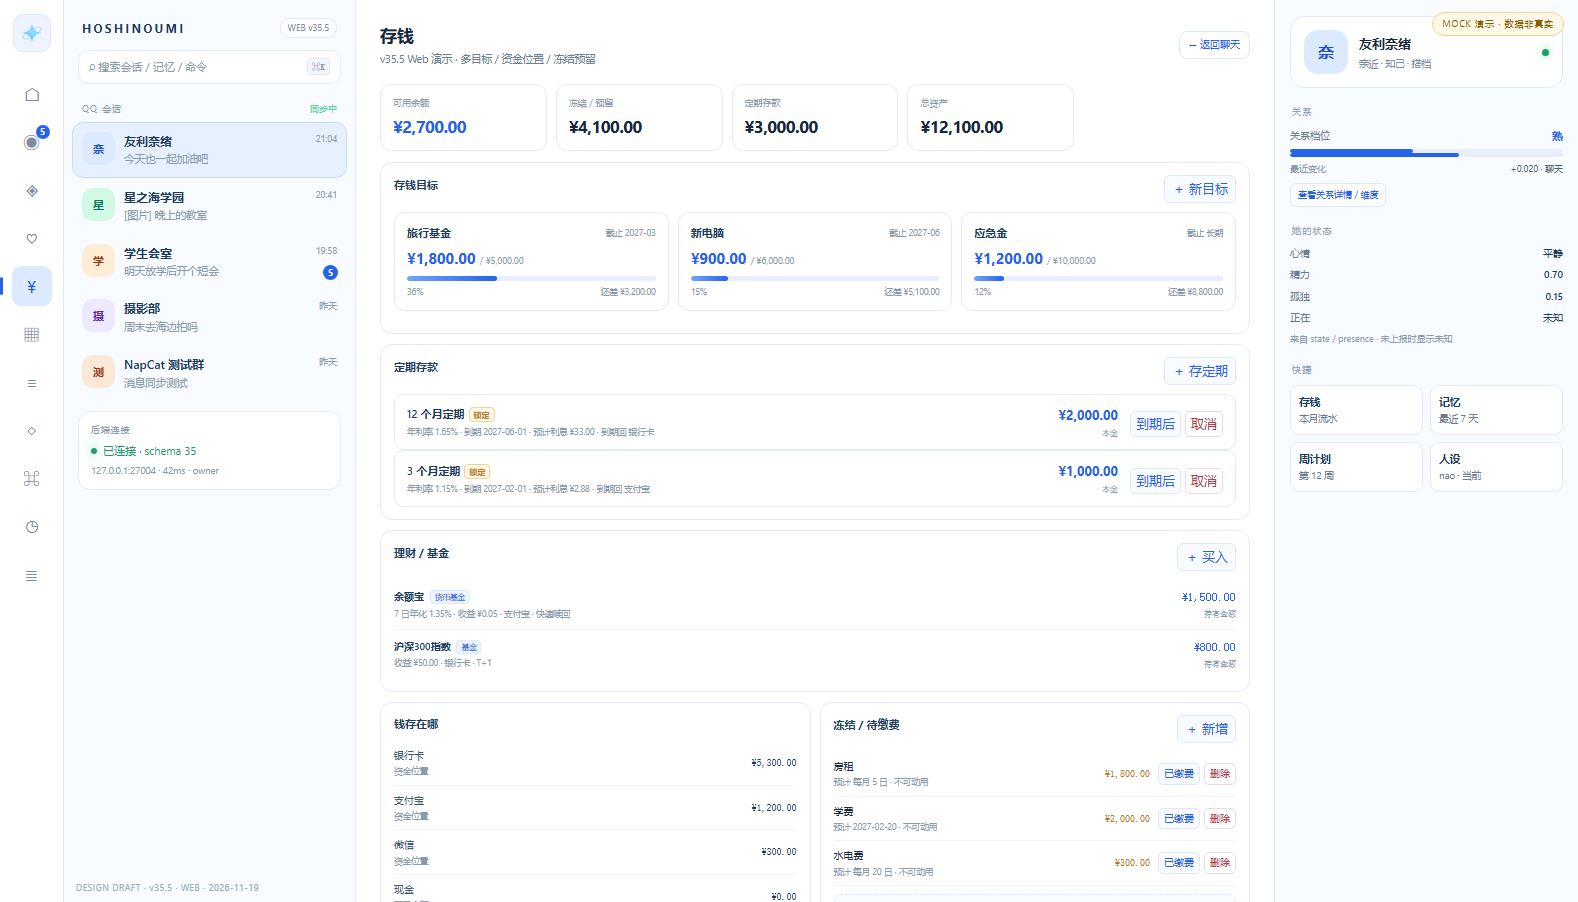
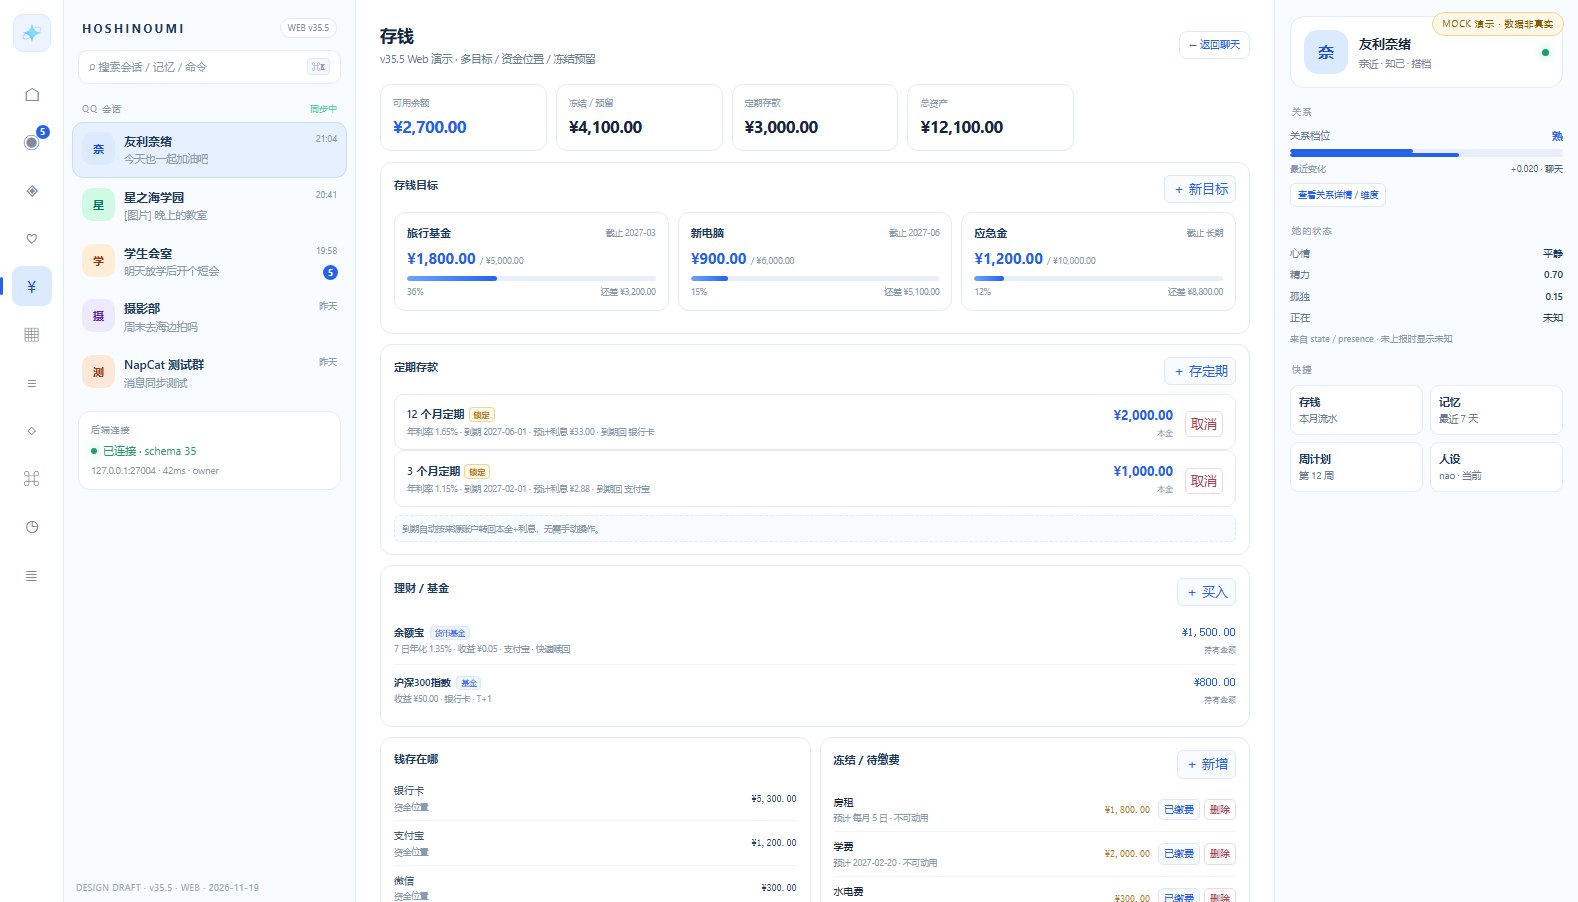
fix(v35.5): 定期到期自动处理与页面滚动

diff --git a/docs/design/v35/web/demo.js b/docs/design/v35/web/demo.js
@@ -85,7 +85,7 @@
   const css = document.createElement('style');
   css.textContent = `
     .chat-hide{display:none!important}
-    .page-view{display:none;flex:1;min-height:0;overflow:auto;padding:22px 24px;background:#fff;color:#17263b}
+    .page-view{display:none;flex:1;min-height:0;overflow-y:auto;overflow-x:hidden;overscroll-behavior:contain;padding:22px 24px;background:#fff;color:#17263b}
     .page-view.on{display:block}
     .page-head{display:flex;align-items:center;gap:12px;margin-bottom:16px}
     .page-head h2{font-size:17px;margin:0;font-weight:650;color:#17263b}
@@ -813,6 +813,16 @@
       });
       function money(n){ return '¥' + Number(n || 0).toLocaleString('zh-CN', {minimumFractionDigits: 2, maximumFractionDigits: 2}); }
       function renderSavings() {
+        const today = new Date(); today.setHours(23, 59, 59, 999);
+        S.fixed = (S.fixed || []).filter(f => {
+          const due = new Date(String(f.due || '') + 'T00:00:00');
+          if (Number.isNaN(due.getTime()) || due > today) return true;
+          const interest = Number(f.amount || 0) * Number(f.rate || 0) / 100 * ((f.months || 12) / 12);
+          const acc = S.accounts.find(a => a[0] === (f.account || '银行卡')) || S.accounts[0];
+          if (acc) acc[1] = Number(acc[1] || 0) + Number(f.amount || 0) + interest;
+          S.entries.unshift([new Date().toISOString().slice(5, 10), 'income', acc ? acc[0] : '银行卡', f.name + ' 到期自动转回', Number(f.amount || 0) + interest]);
+          return false;
+        });
         const rows = S.entries.map(e => '<div class="entry"><span class="tag">' + esc(e[1]) + '</span><span>' + esc(e[2]) + ' · ' + esc(e[3]) + '</span><span class="amt ' + (e[4] < 0 ? 'neg' : 'pos') + '">' + (e[4] > 0 ? '+' : '') + money(e[4]) + '</span><span style="color:#9aabbe">' + esc(e[0]) + '</span></div>').join('');
         const total = S.accounts.reduce((n, a) => n + Number(a[1] || 0), 0);
         const frozen = (S.frozen || []).reduce((n, f) => n + Number(f.amount || 0), 0);
@@ -821,7 +831,7 @@
         const assetTotal = total + fixedTotal + fundTotal;
         const available = assetTotal - frozen - fixedTotal - fundTotal;
         const fundCards = (S.funds || []).map(f => '<div class="fund-row"><div><div class="fund-name">' + esc(f.name) + ' <span class="fund-tag">' + esc(f.type) + '</span></div><div class="fund-meta">' + (f.rate ? '7 日年化 ' + Number(f.rate).toFixed(2) + '% · ' : '') + '收益 ' + money(f.profit) + ' · ' + esc(f.account) + ' · ' + esc(f.redeem) + '</div></div><div class="fund-value">' + money(f.value) + '<small>持有金额</small></div></div>').join('');
-        const fixedCards = (S.fixed || []).map((f, i) => '<div class="fixed-card"><div class="main"><div class="name">' + esc(f.name) + '<span class="fixed-lock">锁定</span></div><div class="meta">年利率 ' + Number(f.rate).toFixed(2) + '% · 到期 ' + esc(f.due) + ' · 预计利息 ' + money(f.amount * f.rate / 100 * ((f.months || 12) / 12)) + ' · 到期回 ' + esc(f.account || '银行卡') + '</div></div><div class="val"><b>' + money(f.amount) + '</b><small>本金</small></div><div class="fixed-acts"><button data-mature="' + i + '">到期后</button><button class="cancel" data-cancel="' + i + '">取消</button></div></div>').join('');
+        const fixedCards = (S.fixed || []).map((f, i) => '<div class="fixed-card"><div class="main"><div class="name">' + esc(f.name) + '<span class="fixed-lock">锁定</span></div><div class="meta">年利率 ' + Number(f.rate).toFixed(2) + '% · 到期 ' + esc(f.due) + ' · 预计利息 ' + money(f.amount * f.rate / 100 * ((f.months || 12) / 12)) + ' · 到期回 ' + esc(f.account || '银行卡') + '</div></div><div class="val"><b>' + money(f.amount) + '</b><small>本金</small></div><div class="fixed-acts"><button class="cancel" data-cancel="' + i + '">取消</button></div></div>').join('');
         const goalCards = (S.goals || []).map(g => {
           const pct = g.target ? Math.min(100, Math.round(g.saved / g.target * 100)) : 0;
           return '<div class="goal-card"><div class="goal-top"><b>' + esc(g.name) + '</b><span>截止 ' + esc(g.due) + '</span></div><div class="goal-amt">' + money(g.saved) + ' <small>/ ' + money(g.target) + '</small></div><div class="gbar"><i style="width:' + pct + '%"></i></div><div class="goal-foot"><span>' + pct + '%</span><span>还差 ' + money(Math.max(0, g.target - g.saved)) + '</span></div></div>';
@@ -831,7 +841,7 @@
         pageView.innerHTML = '<div class="page-head"><div><h2>存钱</h2><p>v35.5 Web 演示 · 多目标 / 资金位置 / 冻结预留</p></div><button class="back" id="backChat">← 返回聊天</button></div>' +
           '<div class="savings-grid"><div class="savings-stat"><div class="k">可用余额</div><div class="v blue">' + money(available) + '</div></div><div class="savings-stat stat-amber"><div class="k">冻结 / 预留</div><div class="v">' + money(frozen) + '</div></div><div class="savings-stat"><div class="k">定期存款</div><div class="v">' + money(fixedTotal) + '</div></div><div class="savings-stat"><div class="k">总资产</div><div class="v">' + money(assetTotal) + '</div></div></div>' +
           '<div class="savings-panel"><div class="panel-head"><h3>存钱目标</h3><button class="mini-add" id="addGoal">＋ 新目标</button></div><div class="savings-goals">' + goalCards + '</div></div>' +
-          '<div class="savings-panel"><div class="panel-head"><h3>定期存款</h3><button class="mini-add" id="addFixed">＋ 存定期</button></div>' + fixedCards + '</div>' +
+          '<div class="savings-panel"><div class="panel-head"><h3>定期存款</h3><button class="mini-add" id="addFixed">＋ 存定期</button></div>' + fixedCards + '<div class="frozen-tip">到期自动按来源账户转回本金+利息，无需手动操作。</div></div>' +
           '<div class="savings-panel"><div class="panel-head"><h3>理财 / 基金</h3><button class="mini-add" id="addFund">＋ 买入</button></div>' + fundCards + '</div>' +
           '<div class="savings-two"><div class="savings-panel"><h3>钱存在哪</h3>' + accountRows + '<div class="frozen-tip">总余额 ' + money(total) + ' = 各账户余额合计</div></div><div class="savings-panel"><div class="panel-head"><h3>冻结 / 待缴费</h3><button class="mini-add" id="addFrozen">＋ 新增</button></div>' + frozenRows + '<div class="frozen-tip">可用余额 = 总资产 ' + money(assetTotal) + ' - 冻结 ' + money(frozen) + ' - 定期 ' + money(fixedTotal) + ' - 理财 ' + money(fundTotal) + ' = <b>' + money(available) + '</b></div></div></div>' +
           '<div class="savings-two"><div class="savings-panel"><h3>记一笔</h3><div class="savings-form"><div><label>金额</label><input id="svAmount" type="number" step="0.01" placeholder="35.50"></div><div><label>账户</label><select id="svAccount">' + S.accounts.map(a => '<option>' + esc(a[0]) + '</option>').join('') + '</select></div><div><label>类型</label><select id="svKind"><option value="expense">支出</option><option value="income">收入</option><option value="saving">存钱</option></select></div><div class="full"><label>备注</label><input id="svNote" placeholder="午饭 / 旅行目标 / 兼职"></div><div class="actions"><button id="svSave">保存</button><span class="import-status" id="svMsg"></span></div></div></div><div class="savings-panel"><h3>最近流水</h3><div class="entry-list">' + rows + '</div></div></div>';
@@ -896,13 +906,6 @@
         pageView.querySelectorAll('[data-del]').forEach(btn => btn.onclick = () => {
           const i = Number(btn.dataset.del); if (!S.frozen[i]) return;
           S.frozen.splice(i, 1); renderSavings(); toast('已删除冻结项（MOCK）');
-        });
-        pageView.querySelectorAll('[data-mature]').forEach(btn => btn.onclick = () => {
-          const i = Number(btn.dataset.mature); const f = S.fixed[i]; if (!f) return;
-          const interest = Number(f.amount || 0) * Number(f.rate || 0) / 100 * ((f.months || 12) / 12);
-          const acc = S.accounts.find(a => a[0] === (f.account || '银行卡')) || S.accounts[0]; if (acc) acc[1] = Number(acc[1] || 0) + Number(f.amount || 0) + interest;
-          S.entries.unshift([new Date().toISOString().slice(5, 10), 'income', acc ? acc[0] : '银行卡', f.name + ' 到期', Number(f.amount || 0) + interest]);
-          S.fixed.splice(i, 1); renderSavings(); toast('定期到期，本金和利息已转回账户（MOCK）');
         });
         pageView.querySelectorAll('[data-cancel]').forEach(btn => btn.onclick = () => {
           const i = Number(btn.dataset.cancel); const f = S.fixed[i]; if (!f) return;
